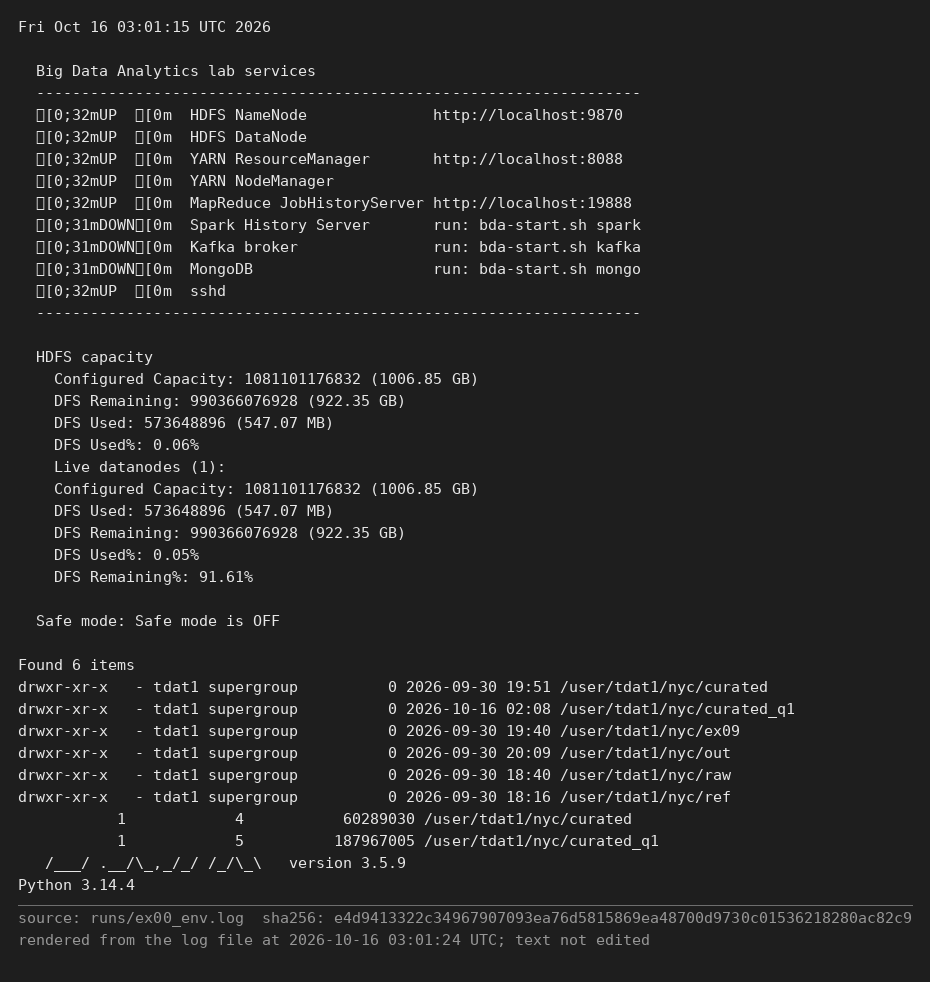
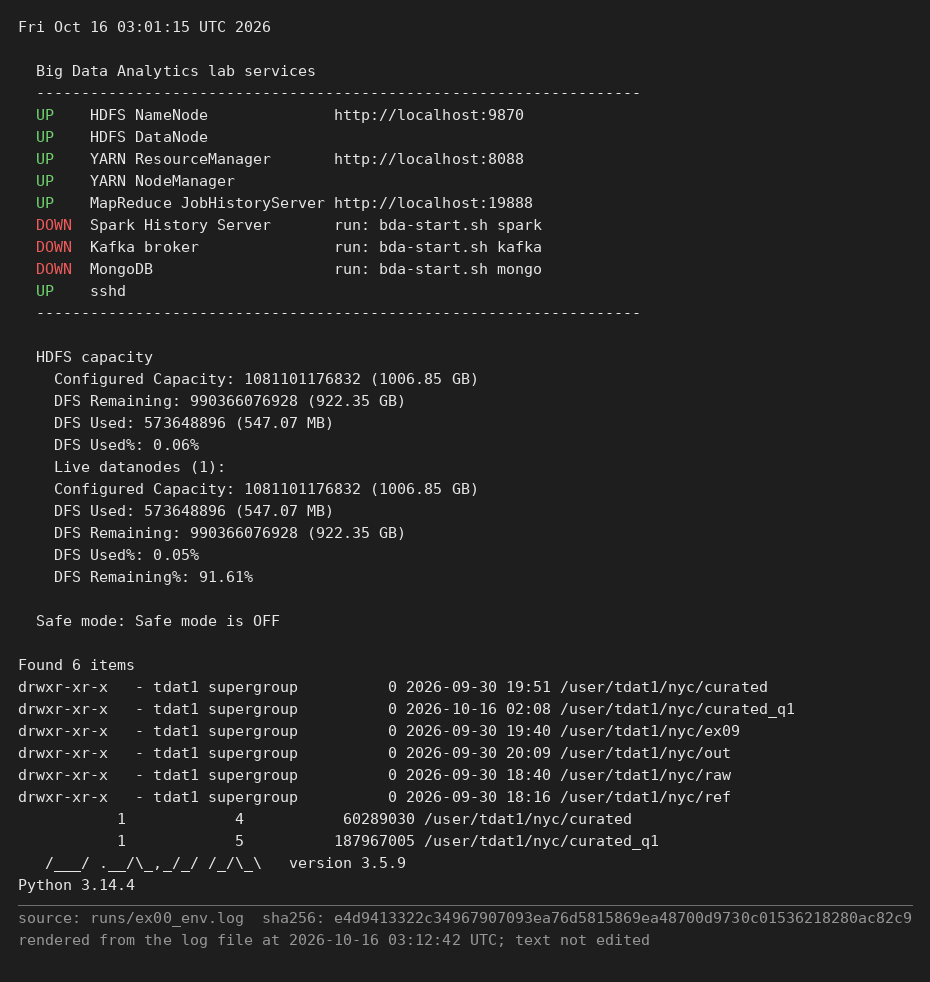
Lab 2: record Exercise 1, add Exercise 2 script and prompt, draw colour codes in log images
Claude-Session: https://claude.ai/code/session_0199fDZwaZHD91eM4stGqbkn

Changed region(s): [[0.0312, 0.0916, 0.686, 0.3055], [0.4366, 0.0916, 0.6548, 0.1222], [0.4366, 0.947, 0.4989, 0.9776]]

diff --git a/lab02/src/ex02_lines.py b/lab02/src/ex02_lines.py
@@ -1,0 +1,67 @@
+"""Lab 2, Exercise 2: which line of the fragment makes Spark read data.
+
+    a = q1.filter(F.col("fare_amount") > 10)
+    b = a.select("PULocationID", "fare_amount")
+    c = b.groupBy("PULocationID").count()
+    d = c.orderBy(F.desc("count"))
+    e = d.take(5)
+
+Each line is timed on its own. One warm-up pass of a..e is not scored, then
+three scored passes. Each line also runs under its own Spark job group, so the
+log shows how many Spark jobs that line launched (a job means data was read).
+Run: spark-submit ~/bda/lab02/src/ex02_lines.py
+"""
+import time
+from pyspark.sql import SparkSession, functions as F
+from common import CURATED_Q1
+
+spark = (SparkSession.builder.appName("lab02-ex02-lines").master("local[4]").getOrCreate())
+spark.sparkContext.setLogLevel("ERROR")
+sc = spark.sparkContext
+tracker = sc.statusTracker()
+
+q1 = spark.read.parquet(CURATED_Q1)   # schema read happens here, outside the timed lines
+LINES = ["a filter", "b select", "c groupBy.count", "d orderBy", "e take(5)"]
+
+
+def one_pass(tag):
+    """Run lines a..e once. Returns {line: (seconds, jobs launched)} and e's result."""
+    out, holder = {}, {}
+
+    def run(name, fn):
+        group = f"ex02-{tag}-{name.split()[0]}"
+        sc.setJobGroup(group, name)
+        t0 = time.perf_counter()
+        fn()
+        dt = time.perf_counter() - t0
+        out[name] = (dt, len(tracker.getJobIdsForGroup(group)))
+
+    run("a filter",        lambda: holder.__setitem__("a", q1.filter(F.col("fare_amount") > 10)))
+    run("b select",        lambda: holder.__setitem__("b", holder["a"].select("PULocationID", "fare_amount")))
+    run("c groupBy.count", lambda: holder.__setitem__("c", holder["b"].groupBy("PULocationID").count()))
+    run("d orderBy",       lambda: holder.__setitem__("d", holder["c"].orderBy(F.desc("count"))))
+    run("e take(5)",       lambda: holder.__setitem__("e", holder["d"].take(5)))
+    sc.setJobGroup("ex02-idle", "idle")
+    return out, holder["e"]
+
+
+one_pass("warmup")
+runs = [one_pass(f"run{i}") for i in (1, 2, 3)]
+
+print()
+print(f"  settings: master local[4], spark.sql.adaptive.enabled={spark.conf.get('spark.sql.adaptive.enabled')}, "
+      f"spark.sql.shuffle.partitions={spark.conf.get('spark.sql.shuffle.partitions')}")
+print(f"  input: curated_q1 ({q1.count():,} rows); 1 warm-up pass not scored, 3 scored passes")
+print()
+print(f"  {'line':<17}{'run 1 s':>10}{'run 2 s':>10}{'run 3 s':>10}{'best s':>10}   Spark jobs per run")
+for name in LINES:
+    t = [r[0][name][0] for r in runs]
+    j = [r[0][name][1] for r in runs]
+    print(f"  {name:<17}{t[0]:>10.4f}{t[1]:>10.4f}{t[2]:>10.4f}{min(t):>10.4f}   {j[0]} / {j[1]} / {j[2]}")
+print()
+print("  result of e (run 3):")
+for row in runs[2][1]:
+    print(f"    PULocationID {row['PULocationID']:>4}   count {row['count']:,}")
+print()
+
+spark.stop()

diff --git a/lab02/src/log_to_png.py b/lab02/src/log_to_png.py
@@ -7,6 +7,7 @@ Needs Pillow:  ~/bda/venv/bin/pip install pillow
 """
 import datetime
 import hashlib
+import re
 import sys
 from pathlib import Path
 
@@ -19,6 +20,24 @@ stamp = datetime.datetime.now(datetime.timezone.utc).strftime("%Y-%m-%d %H:%M:%S
 footer = [f"source: {src}  sha256: {hashlib.sha256(raw).hexdigest()}",
           f"rendered from the log file at {stamp}; text not edited"]
 
+# Terminal colour codes (from bda-status.sh) are drawn as colours, not as text.
+SGR = re.compile(r"\x1b\[([0-9;]*)m")
+COLOURS = {"31": (240, 90, 90), "32": (110, 210, 110), "33": (230, 200, 90)}
+DEFAULT = (230, 230, 230)
+
+
+def segments(line):
+    colour, pos = DEFAULT, 0
+    for m in SGR.finditer(line):
+        if m.start() > pos:
+            yield line[pos:m.start()], colour
+        codes = m.group(1).split(";")
+        colour = next((COLOURS[c] for c in codes if c in COLOURS), DEFAULT)
+        pos = m.end()
+    if pos < len(line):
+        yield line[pos:], colour
+
+
 font = None
 for f in ["/usr/share/fonts/truetype/dejavu/DejaVuSansMono.ttf",
           "/usr/share/fonts/truetype/liberation/LiberationMono-Regular.ttf"]:
@@ -29,14 +48,18 @@ font = font or ImageFont.load_default()
 
 probe = ImageDraw.Draw(Image.new("RGB", (1, 1)))
 line_h = probe.textbbox((0, 0), "Ag", font=font)[3] + 5
-width = max(probe.textlength(l, font=font) for l in lines + footer + [" " * 40])
+plain = [SGR.sub("", l) for l in lines]
+width = max(probe.textlength(l, font=font) for l in plain + footer + [" " * 40])
 pad = 18
 img = Image.new("RGB", (int(width) + 2 * pad, line_h * (len(lines) + len(footer) + 1) + 2 * pad),
                 (30, 30, 30))
 d = ImageDraw.Draw(img)
 y = pad
 for l in lines:
-    d.text((pad, y), l, font=font, fill=(230, 230, 230))
+    x = pad
+    for text, colour in segments(l):
+        d.text((x, y), text, font=font, fill=colour)
+        x += probe.textlength(text, font=font)
     y += line_h
 y += line_h // 2
 d.line((pad, y - 4, img.width - pad, y - 4), fill=(110, 110, 110))

diff --git a/lab02/answers.md b/lab02/answers.md
@@ -1,0 +1,32 @@
+# Lab 2 answers: Spark Batch Processing
+
+Student: Hồ Du Tuấn Đạt, 2374802010097, HDFS user `tdat1`.
+Every number below is copied from a log in `runs/`; the matching image is in `figures/`. Each image rendered from a log carries that log's SHA-256 in its footer.
+
+## Section 3 (reference run, not an exercise)
+
+Log `runs/sec3_q1_scale.log` (2026-10-16 03:02:52 UTC), image `figures/lab02_sec3_q1_scale.png`.
+
+- Raw rows, January to March: 9,554,778; `curated_q1` rows: 8,480,687; dropped: 1,074,091, which is 11.24% of the 9,554,778 raw Jan-Mar rows; 4 partitions in memory.
+- `hdfs dfs -count curated_q1`: 1 directory, 5 files, 187,967,005 bytes.
+- All five values match the expected output printed in manual section 3.2.
+
+## Exercise 1: Curate a different window (7 points)
+
+Script `src/ex01_janfeb.py`: the Lab 1 / Section 3 rules unchanged, applied to the two files `yellow_tripdata_2024-01.parquet` and `yellow_tripdata_2024-02.parquet`, with the pickup window [2024-01-01, 2024-03-01). Output: `/user/tdat1/nyc/curated_jan_feb`.
+Evidence: `runs/ex01_janfeb.log` (2026-10-16 03:03:29 UTC), `figures/lab02_ex01_janfeb.png`.
+
+| Quantity | Value |
+|---|---|
+| Raw rows, 2024-01 file | 2,964,624 |
+| Raw rows, 2024-02 file | 3,007,526 |
+| Raw rows, Jan+Feb (cohort) | 5,972,150 |
+| Kept (`curated_jan_feb`) | 5,444,135 |
+| Dropped | 528,015 |
+| Share dropped | **8.84% of the 5,972,150 raw Jan+Feb rows** |
+| Pickup dates kept | 2024-01-01 .. 2024-02-29 |
+| `hdfs dfs -count` | 1 directory, 5 files (4 parquet parts + `_SUCCESS`), 120,323,100 bytes |
+
+Consistency checks (arithmetic on the logged numbers): 2,964,624 + 3,007,526 = 5,972,150; 5,972,150 − 5,444,135 = 528,015; 528,015 / 5,972,150 = 8.84%; the four part sizes in `hdfs dfs -ls` add up to 120,323,100 bytes. The January file count equals the Lab 1 raw count (2,964,624).
+
+Comparison, with each cohort named: Lab 1 dropped 8.11% of the 2,964,624 raw January rows; this window drops 8.84% of the 5,972,150 raw Jan+Feb rows; Section 3 dropped 11.24% of the 9,554,778 raw Jan-Mar rows. The share rises as months are added, which is consistent with the manual's statement that later months contain a larger share of failing rows. This is a comparison of aggregates, not a per-month measurement: the drop share of the February file alone was not measured, and the date window also changes between the three runs (rows in the January file with a February pickup are dropped by Lab 1 but kept here), so the three shares are not strictly comparable.

diff --git a/lab02/prompts/ex02.md b/lab02/prompts/ex02.md
@@ -1,0 +1,41 @@
+# Prompt for Claude Code on the student's WSL: Exercise 2
+
+Paste everything below the line into Claude Code, started with `cd ~/Big_Data && claude`.
+
+---
+
+You are working in `~/Big_Data` on the student's own WSL Ubuntu machine. Read `lab02/CLAUDE.md` first and follow it strictly (no invented or edited numbers, no force-push, never touch `lab01/`, never delete HDFS data under `/user/tdat1/nyc`).
+
+Goal: real evidence for Lab 2 Exercise 2 ("which line does the work"), pushed to branch `claude/lab02-spark-batch-33099o`.
+
+Step 1. Update the branch. If `git status --short` shows uncommitted changes, stop and show them to me.
+```bash
+cd ~/Big_Data && git status --short && git pull origin claude/lab02-spark-batch-33099o
+```
+
+Step 2. Check the cluster. If it prints STOP or `Connection refused`, stop and show me the output.
+```bash
+bash ~/bda/lab02/start_cluster.sh
+```
+
+Step 3. Run Exercise 2. The script times lines a-e separately (1 warm-up pass, 3 scored passes) and counts the Spark jobs each line launched. Close other heavy programs first so the timings are less noisy.
+```bash
+cd ~/bda/lab02
+{ date -u; spark-submit src/ex02_lines.py 2>runs/ex02_lines.err; } | tee runs/ex02_lines.log
+~/bda/venv/bin/python src/log_to_png.py runs/ex02_lines.log figures/lab02_ex02_timings.png
+```
+If the log has no table with lines `a filter` to `e take(5)`, show me the last 40 lines of `runs/ex02_lines.err` and stop. Do not re-run more than once.
+
+Step 4. Self-check, reading only the log. Report PASS or FAIL with the numbers copied from the log:
+- the table has 5 rows (a-e), each with 3 run times and a best, and the best equals the minimum of the 3;
+- the `Spark jobs per run` column for each line (copy it as printed);
+- the input row count printed equals 8,480,687 (the `curated_q1` count from Section 3);
+- the settings line is present.
+Do not interpret the timings; just copy them.
+
+Step 5. Commit and push only the evidence.
+```bash
+cd ~/Big_Data && git add lab02/runs/ex02_lines.log lab02/runs/ex02_lines.err lab02/figures/lab02_ex02_timings.png && git status --short && git commit -m "Lab 2: Exercise 2 evidence" && git push origin claude/lab02-spark-batch-33099o
+```
+
+Finally print, verbatim: `cat lab02/runs/ex02_lines.log`, the self-check table, and `git log -1 --oneline`.

diff --git a/lab02/runs/run_record.md b/lab02/runs/run_record.md
@@ -1,0 +1,36 @@
+# Run record: Lab 2 (Spark Batch Processing)
+
+Student: Hồ Du Tuấn Đạt - 2374802010097
+Linux account: tdat1 (machine DESKTOP-ANNRGGL, from the Spark warnings in `runs/*.err`)
+
+Conventions: every number is copied from a log in `runs/`. Timings are 1 warm-up run (not scored) + 3 scored runs; all three and the best are recorded. Every percentage names its cohort. Times are UTC.
+
+## 1. Environment (`runs/ex00_env.log`, 2026-10-16 03:01:15)
+
+| Item | Value |
+|---|---|
+| Spark | 3.5.9 (`spark-submit --version`) |
+| Python | 3.14.4 |
+| Hadoop / Java | 3.4.3 / OpenJDK 17 (from Lab 1 run record; not re-printed in Lab 2) |
+| Services UP | HDFS NameNode, HDFS DataNode, YARN ResourceManager, YARN NodeManager, MapReduce JobHistoryServer, sshd |
+| Services DOWN | Spark History Server, Kafka broker, MongoDB (not needed for Ex1-3) |
+| HDFS | 1 live DataNode, safe mode OFF |
+| `curated` (Lab 1) | 1 dir, 4 files, 60,289,030 bytes |
+| `curated_q1` | 1 dir, 5 files, 187,967,005 bytes |
+| Spark master | `local[4]` (in every script) |
+
+## 2. Changes to the lecturer's code
+- `/user/thaianh/` replaced by `/user/tdat1/` in q1-q6 (no `thaianh` left).
+- Added `common.py`, `ex01_janfeb.py`, `ex02_lines.py`, `log_to_png.py`.
+
+## 3. Runs
+
+| When (UTC) | What | Log | Result |
+|---|---|---|---|
+| 03:02:52 | Section 3, `q1_scale.py` (re-run; rewrites `curated_q1` with the same rules) | `sec3_q1_scale.log` | raw 9,554,778; kept 8,480,687; dropped 1,074,091 = 11.24% of the 9,554,778 raw Jan-Mar rows; 4 partitions; count 1 / 5 / 187,967,005 bytes (same bytes as before the re-run) |
+| 03:03:29 | Ex1, `ex01_janfeb.py` | `ex01_janfeb.log` | raw 5,972,150 (01: 2,964,624; 02: 3,007,526); kept 5,444,135; dropped 528,015 = 8.84% of the 5,972,150 raw Jan+Feb rows; 5 partitions in memory; count 1 / 5 / 120,323,100 bytes |
+
+Note on Ex1: the output has 4 part files but the read-back DataFrame has 5 partitions in memory. This is an inference, not a measurement: when reading, Spark splits files larger than its split size and packs small splits together, so the partition count need not equal the file count.
+
+## 4. Predictions (Ex5-8)
+Not yet written.
